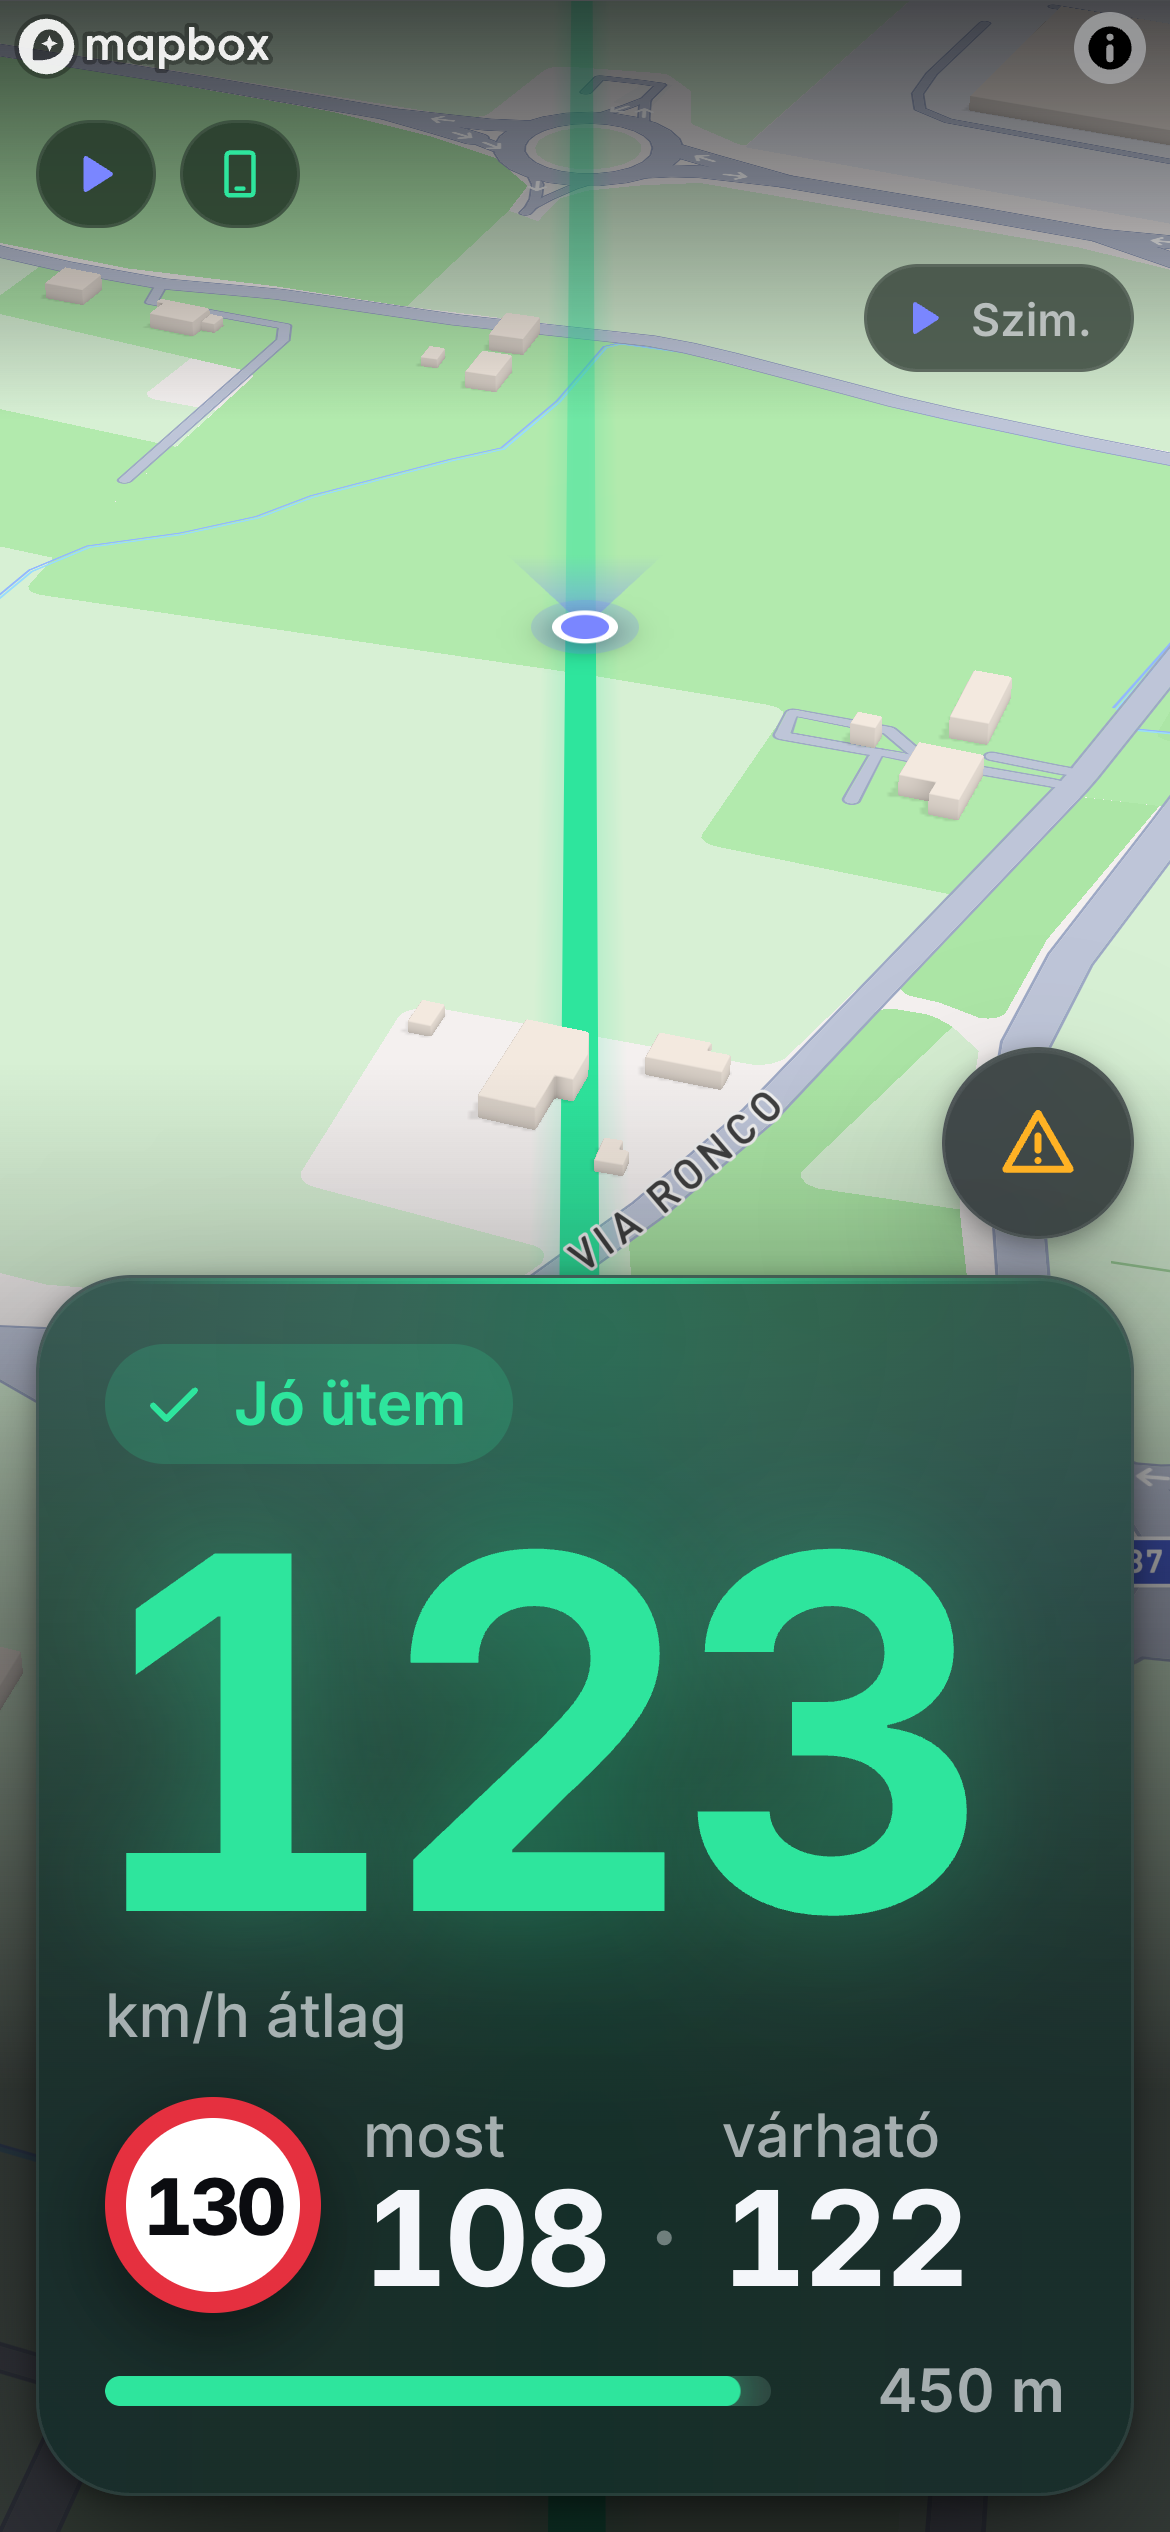
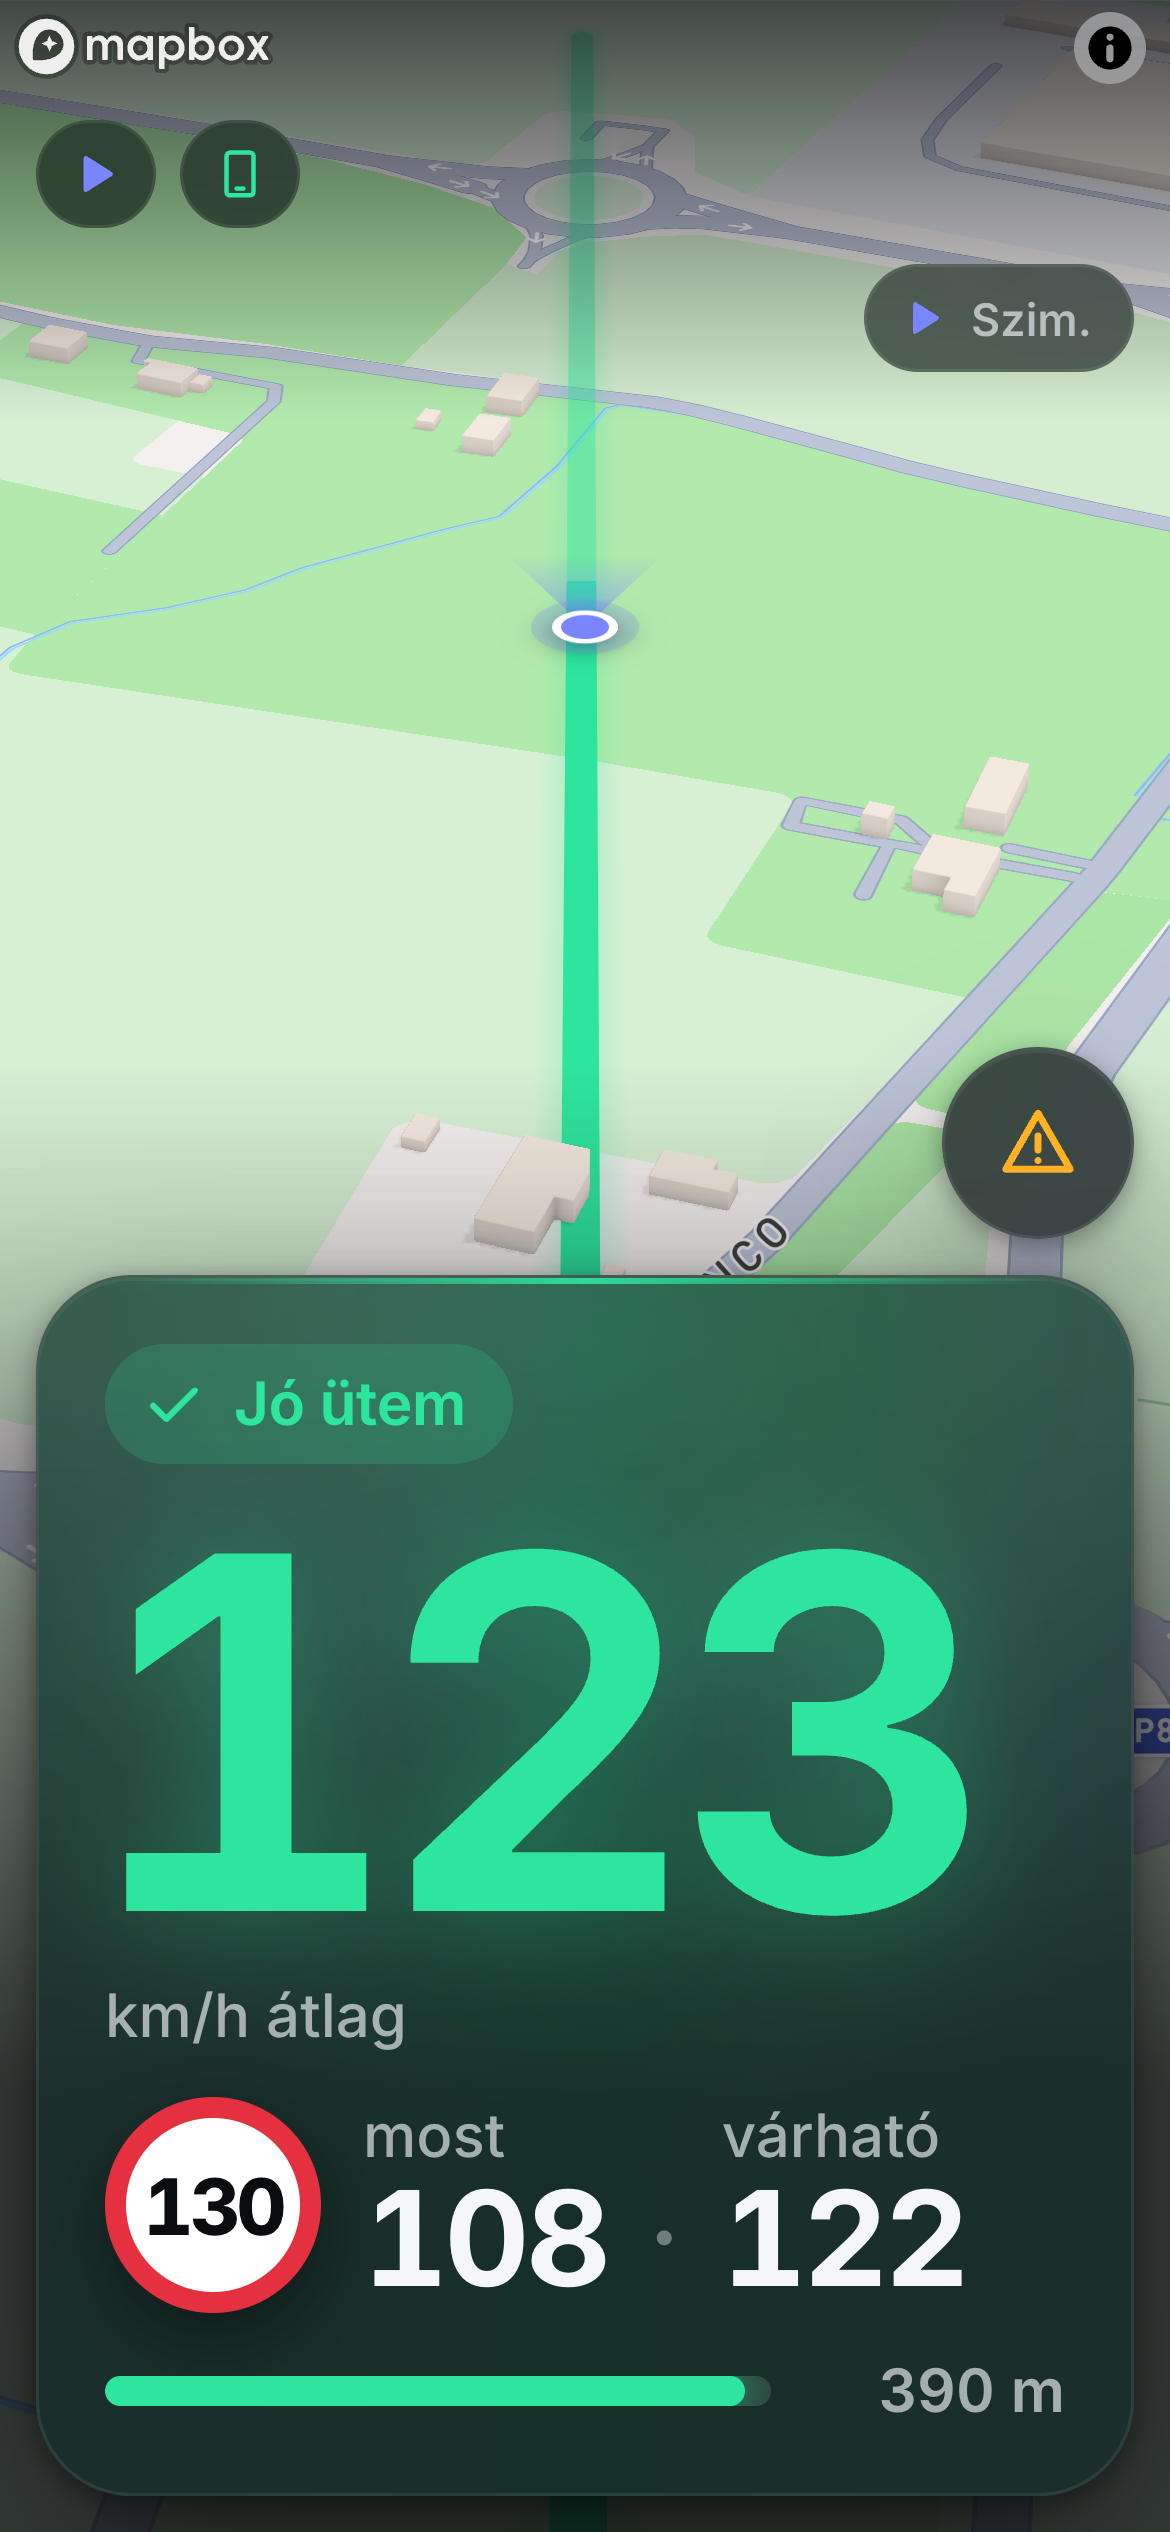
A7b: a „Lassíts · max X” sáv csak amíg a pillanatnyi sebesség > X

diff --git a/packages/core/src/metrics.ts b/packages/core/src/metrics.ts
@@ -93,10 +93,14 @@ export function meterState(input: { averageKmh: number | null; projectedKmh: num
 /** A „Lassíts” sáv tartalma: `max` = ennyivel haladj legfeljebb; `nem_hozhato` = már nem reális. */
 export type MeterBar = { kind: 'max'; maxKmh: number } | { kind: 'nem_hozhato' };
 
-/** Sáv csak `lassits` / `tul_gyors` állapotban van (és ha a hátralévő útra van értelmes korlát). */
-export function meterBar(state: MeterState | null, required: RequiredSpeed): MeterBar | null {
+/**
+ * Sáv csak `lassits` / `tul_gyors` állapotban van (és ha a hátralévő útra van értelmes korlát),
+ * és „max X” csak amíg a pillanatnyi sebesség > X – ha már X alatt vagy, nincs mit mondani
+ * (az állapot, a chip és a szín ettől függetlenül marad). Ismeretlen sebességnél a sáv megmarad.
+ */
+export function meterBar(state: MeterState | null, required: RequiredSpeed, currentKmh: number | null = null): MeterBar | null {
   if (state === null || state === 'jo') return null;
-  if (required.kind === 'ok') return { kind: 'max', maxKmh: required.maxKmh };
+  if (required.kind === 'ok') return currentKmh !== null && currentKmh <= required.maxKmh ? null : { kind: 'max', maxKmh: required.maxKmh };
   if (required.kind === 'nem_lehetseges') return { kind: 'nem_hozhato' };
   return null;
 }

diff --git a/packages/core/test/metrics.test.ts b/packages/core/test/metrics.test.ts
@@ -144,4 +144,15 @@ describe('meterState / meterBar', () => {
     expect(meterBar('tul_gyors', { kind: 'nem_lehetseges', maxKmh: 60 })).toEqual({ kind: 'nem_hozhato' });
     expect(meterBar('tul_gyors', { kind: 'nincs_korlat' })).toBeNull();
   });
+
+  it('sáv: „max X” csak amíg a pillanatnyi sebesség > X', () => {
+    const req = { kind: 'ok', maxKmh: 122 } as const;
+    expect(meterBar('lassits', req, 140)).toEqual({ kind: 'max', maxKmh: 122 });
+    expect(meterBar('lassits', req, 122.1)).toEqual({ kind: 'max', maxKmh: 122 });
+    expect(meterBar('lassits', req, 122)).toBeNull();
+    expect(meterBar('lassits', req, 108)).toBeNull();
+    expect(meterBar('tul_gyors', req, 108)).toBeNull(); // az állapot marad, csak a sáv tűnik el
+    expect(meterBar('tul_gyors', req, null)).toEqual({ kind: 'max', maxKmh: 122 });
+    expect(meterBar('tul_gyors', { kind: 'nem_lehetseges', maxKmh: 60 }, 50)).toEqual({ kind: 'nem_hozhato' });
+  });
 });

diff --git a/apps/web/src/ui/Hud.tsx b/apps/web/src/ui/Hud.tsx
@@ -336,7 +336,7 @@ function useSteady(value: boolean, onMs: number, offMs: number): boolean {
  */
 export function SlowDown({ view, unit }: { view: SessionView; unit: Settings['egyseg'] }) {
   const live = view.phase === 'meres' ? view.live : null;
-  const bar = live ? meterBar(view.status, live.required) : null;
+  const bar = live ? meterBar(view.status, live.required, view.currentKmh) : null;
   const show = useSteady(bar !== null, 1500, 3000);
   // eltűnéskor az utolsó tartalom (és színe) marad, hogy ne ugorjon a kifutó animáció alatt
   const last = useRef<{ bar: MeterBar; tone: string } | null>(null);

diff --git a/DESIGN.md b/DESIGN.md
@@ -76,7 +76,7 @@ biztonsági zóna fölött lebeg.
 - **Ébrentartás (A4-döntés):** ha a Wake Lock nem sikerül, **egyszer**, induláskor egy csendes,
   semleges toast szól (5 s); utána csak a szürke kijelző-ikon jelzi – nem sárga, nem ismétlődik.
 - **„Lassíts · max X” (A4-döntés):** külön, nagy üvegpill középen a kártya fölött (76 px magas,
-  `title` címke + 44 px-es szám), **csak `lassits` / `tul_gyors` állapotban** (a színe az állapoté; „Nem hozható be” szöveggel, ha a „max” már nem reális). Megjelenés/eltűnés `slow` (480 ms)
+  `title` címke + 44 px-es szám), **csak `lassits` / `tul_gyors` állapotban, és csak amíg a pillanatnyi sebesség > X** (ha már X alatt vagy, nincs sáv; a chip és a szín az állapot szerint marad) (a színe az állapoté; „Nem hozható be” szöveggel, ha a „max” már nem reális). Megjelenés/eltűnés `slow` (480 ms)
   opacity + transform; hiszterézis: 1,5 s fennállás után jelenik meg, 3 s hiány után tűnik el,
   így a határérték körüli ingadozás nem villog. 
 - **Kerek gombok** (64 px, üveg): bejelentés, kézi mérés, beállítások.
